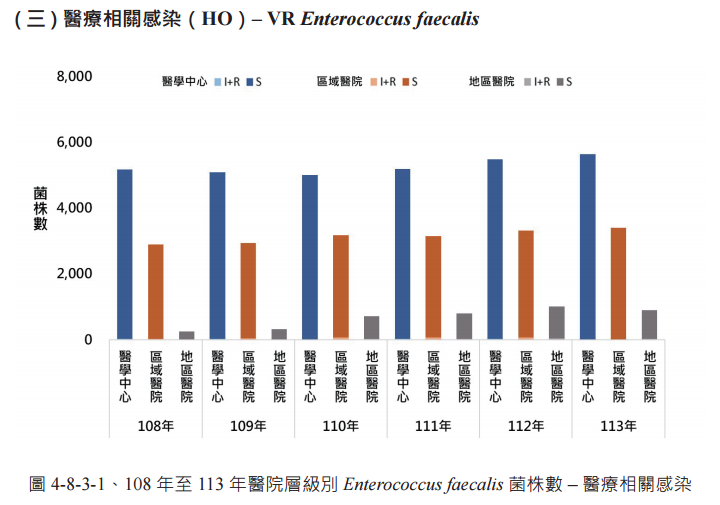
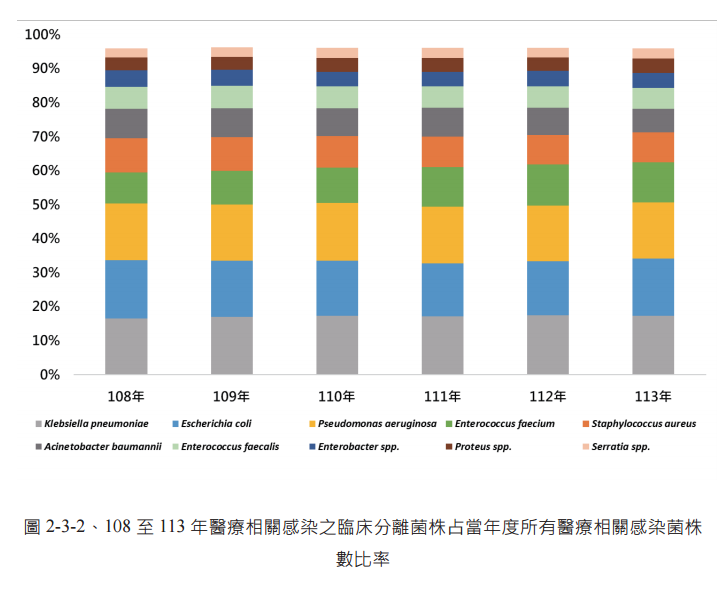
feat: update composition example for the new 100% stacked chart
amr_composition.png replaced with 圖 2-3-2 (HO species share by year);
rewrite the example text to describe the composition (top three
K. pneumoniae / E. coli / P. aeruginosa ~16-17%, stable over 108-113).

diff --git a/js/examples.js b/js/examples.js
@@ -21,7 +21,7 @@ export const EXAMPLES = {
   },
   amr_composition: {
     image: 'assets/examples/amr_composition.png',
-    output: '本圖為 108–113 年醫療相關感染（HO）之 Enterococcus faecalis 菌株數，依醫院層級（醫學中心／區域／地區）分組，每長條再分 S 與 I+R。以醫學中心檢出最多（約 5,000–5,700 株），各層級逐年大致穩定。',
+    output: '本圖為 108–113 年醫療相關感染（HO）各菌種占當年度菌株數之比率（100% 堆疊）。前三名 K. pneumoniae、E. coli、P. aeruginosa 占比相近（各約 16–17%），6 年間大致持平；其後依序為 Enterococcus faecium、S. aureus、A. baumannii 等。',
   },
   amr_trend: {
     image: 'assets/examples/amr_trend.png',